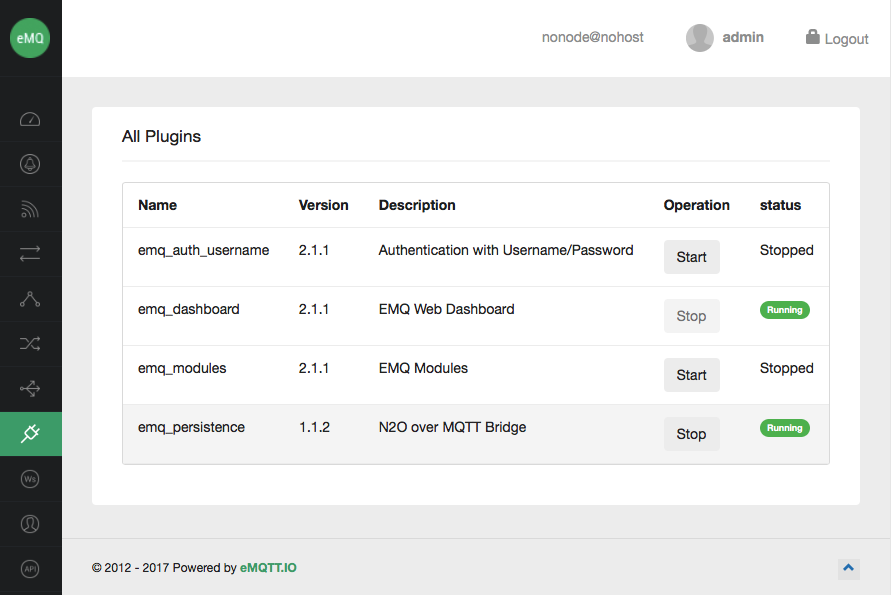
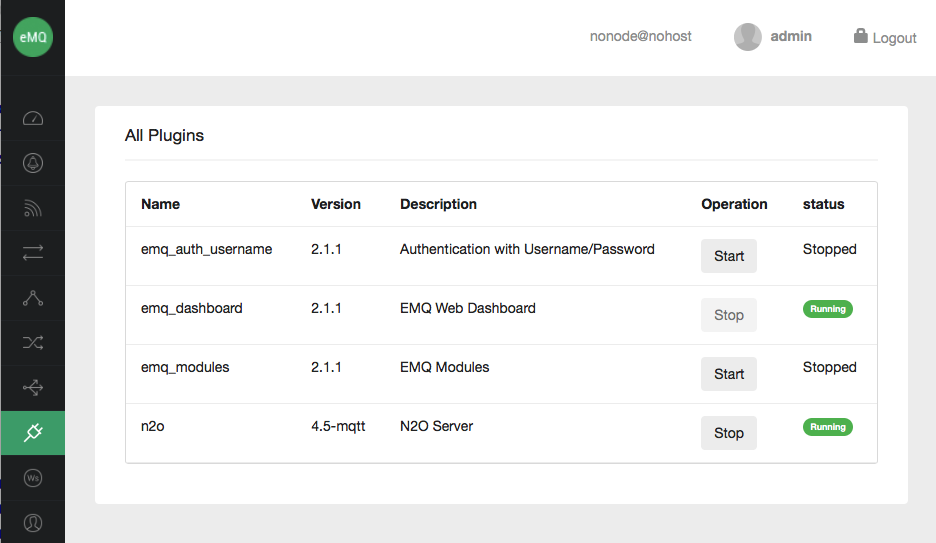
mqtt

diff --git a/mqtt.htm b/mqtt.htm
@@ -120,6 +120,7 @@
            clean git history, small codebase, nitro compatible,
            man/html docs.</p>
         <figure>
+            <figcaption>Listing 1. N2O 4.5 MQTT</figcaption>
         <pre style="width:700px">
 
     $ time git clone git://github.com/synrc/mqtt
@@ -142,10 +143,13 @@
         <a name=""><h3>N2O things deprecated due to MQTT</h3></a>
         <p>
             N2O_start and n2o.js are no longer used in MQTT version of N2O.
-            Instead of N2O_start, MQTT_start and mqtt.js should be used for session control replacement.
-            We traded HEART protocol and session facilities for built-in MQTT features.
-            N2O authentication and authorization mechanisms are also abandoned as MQTT could provide AUTH features too.
-            Obviously <b>wf:reg</b> and <b>wf:send</b> APIs have also been abandoned as we can use emqttd API directly and {deliver,_} protocol of ws_client gen_server.
+            Instead of N2O_start, MQTT_start and mqtt.js should be used for
+            session control replacement. We traded HEART protocol and session
+            facilities for built-in MQTT features. N2O authentication and
+            authorization mechanisms are also abandoned as MQTT could provide
+            AUTH features too. Obviously <b>wf:reg</b> and <b>wf:send</b> APIs
+            have also been abandoned as we can use emqttd API directly and
+            <b>{deliver,_}</b> protocol of ws_client gen_server.
         </p>
         <ul>
             <li><b>n2o_session</b> &mdash; no Browser, so no Cookies are needed</li>
@@ -214,7 +218,7 @@
     <section>
         <a name=sample><h3>Sample Application</h3></a>
         <figure>
-            <figcaption>Code 3. Sample Web Application written in NITRO DSL</figcaption>
+            <figcaption>Listing 2. Sample Web Application written in NITRO DSL</figcaption>
             <code>
   main() -> [].
 
@@ -231,7 +235,7 @@
 </code>
 </figure>
         <figure>
-            <figcaption>Picture 1.1. N2O Review Application</figcaption>
+            <figcaption>Picture 3. N2O Review Application</figcaption>
             <img src="img/n2o-mqtt.png">
         </figure>
     </section>
@@ -245,7 +249,7 @@
             It can only be reached by calling <b>{init,_}</b> message of NITRO protocol.
         </p>
         <figure>
-            <figcaption>Code 1. Emulating "N2O," init handshake</figcaption>
+            <figcaption>Listing 3. Emulating "N2O," init handshake</figcaption>
             <code>
 on_client_subscribe(ClientId, Username, TopicTable, _Env) ->
   Name = binary_to_list(iolist_to_binary(ClientId)),
@@ -269,7 +273,7 @@ on_client_subscribe(ClientId, Username, TopicTable, _Env) ->
             This is the best place to put the federation relay for N2O modules.
         </p>
         <figure>
-            <figcaption>Code 2. Emulating N2O message delivery</figcaption>
+            <figcaption>Listing 4. Emulating N2O message delivery</figcaption>
             <code>
   on_message_delivered(ClientId, Username,
                      Message = #mqtt_message{topic   = Topic,
@@ -293,7 +297,7 @@ on_client_subscribe(ClientId, Username, TopicTable, _Env) ->
     <section>
         <a name=js><h3>MQTT JavaScript Client</h3></a>
         <figure>
-            <figcaption>Code 4. mq.js</figcaption>
+            <figcaption>Listing 5. mq.js</figcaption>
             <code>
 var topic = module + "_" + params.room || "lobby",
     mqtt = new Paho.MQTT.Client("127.0.0.1", 8083, ''),
@@ -350,7 +354,7 @@ MQTT_start();
             <a href="http://127.0.0.1:8000/spa/login.htm">http://127.0.0.1:8000/spa/login.htm</a>
         </p>
         <figure>
-            <figcaption>Picture 2. EMQ Plugin</figcaption>
+            <figcaption>Picture 4. EMQ Plugin</figcaption>
             <img src="img/emq.png">
         </figure>
     </section>
@@ -363,7 +367,7 @@ MQTT_start();
             <a href="https://github.com/emqtt">https://github.com/emqtt</a> Github organization.
         </p>
         <figure>
-            <figcaption>Picture 3. MQTT 3.1.1 vs MQTT 5.0</figcaption>
+            <figcaption>Picture 5. MQTT 3.1.1 vs MQTT 5.0</figcaption>
             <img src="img/mqtt-v5.svg">
         </figure>
         <p>
@@ -371,7 +375,7 @@ MQTT_start();
             Our fork is based on the latest EMQ master and is dedicated for building with our MAD build tool.
         </p>
         <figure>
-            <figcaption>Code 5. Setup MQTT flavoured N2O.</figcaption>
+            <figcaption>Listing 6. Setup MQTT flavoured N2O.</figcaption>
             <pre>
 $ brew install erlang
 $ curl -fsSL https://raw.github.com/synrc/mad/master/mad > mad \
@@ -388,119 +392,74 @@ sys     0m5.065s
 $ mad rep
 Configuration: [{n2o,
                     [{port,8000},
-                    {app,review},
-                    {mode,dev},
-                    {route,routes},
-                    {formatter,bert},
-                    {minify,
-                        {"apps/review/priv/static",
-                        ["deps/n2o/priv/bullet.js","deps/n2o/priv/n2o.js",
-                        "apps/review/priv/mq.js","deps/n2o/priv/ftp.js",
-                        "deps/n2o/priv/protocols/bert.js",
-                        "deps/n2o/priv/protocols/nitrogen.js",
-                        "deps/n2o/priv/utf8.js",
-                        "deps/n2o/priv/validation.js"]}},
-                    {log_modules,config},
-                    {log_level,config},
-                    {log_backend,n2o_log},
-                    {origin,<<"*">>},
-                    {auto_session,disabled},
-                    {pickler,n2o_pickle},
-                    {erroring,n2o_error},
-                    {event,pickle}]},
+                     {app,review},
+                     {pickler,n2o_secret},
+                     {formatter,bert},
+                     {log_modules,config},
+                     {log_level,config}]},
                 {emq_dashboard,
                     [{listeners_dash,
-                        [{http,18083,[{acceptors,4},{max_clients,512}]}]}]},
+                         [{http,18083,[{acceptors,4},{max_clients,512}]}]}]},
                 {emq_modules,
                     [{modules,
-                        [{emq_mod_presence,[{qos,1}]},
-                        {emq_mod_subscription,[{<<"%u/%c/#">>,2}]},
-                        {emq_mod_rewrite,
-                            [{rewrite,"x/#","^x/y/(.+)$","z/y/$1"},
-                            {rewrite,"y/+/z/#","^y/(.+)/z/(.+)$",
-                                "y/z/$2"}]}]}]},
+                         [{emq_mod_presence,[{qos,1}]},
+                          {emq_mod_subscription,[{<<"%u/%c/#">>,2}]},
+                          {emq_mod_rewrite,
+                              [{rewrite,"x/#","^x/y/(.+)$","z/y/$1"},
+                               {rewrite,"y/+/z/#","^y/(.+)/z/(.+)$",
+                                   "y/z/$2"}]}]}]},
                 {emqttd,
                     [{listeners,
-                        [{http,8083,[{acceptors,4},{max_clients,512}]},
-                        {tcp,1883,[{acceptors,4},{max_clients,512}]}]},
-                    {sysmon,
-                        [{long_gc,false},
-                        {long_schedule,240},
-                        {large_heap,8000000},
-                        {busy_port,false},
-                        {busy_dist_port,true}]},
-                    {session,
-                        [{upgrade_qos,off},
-                        {max_inflight,32},
-                        {retry_interval,20},
-                        {max_awaiting_rel,100},
-                        {await_rel_timeout,20},
-                        {enable_stats,off}]},
-                    {queue,[]},
-                    {allow_anonymous,true},
-                    {protocol,
-                        [{max_clientid_len,1024},{max_packet_size,64000}]},
-                    {acl_file,"etc/acl.conf"},
-                    {plugins_etc_dir,"etc/plugins/"},
-                    {plugins_loaded_file,"etc/loaded_plugins"},
-                    {pubsub,
-                        [{pool_size,8},{by_clientid,true},{async,true}]}]},
+                         [{http,8083,[{acceptors,4},{max_clients,512}]},
+                          {tcp,1883,[{acceptors,4},{max_clients,512}]}]},
+                     {sysmon,
+                         [{long_gc,false},
+                          {long_schedule,240},
+                          {large_heap,8000000},
+                          {busy_port,false},
+                          {busy_dist_port,true}]},
+                     {session,
+                         [{upgrade_qos,off},
+                          {max_inflight,32},
+                          {retry_interval,20},
+                          {max_awaiting_rel,100},
+                          {await_rel_timeout,20},
+                          {enable_stats,off}]},
+                     {queue,[]},
+                     {allow_anonymous,true},
+                     {protocol,
+                         [{max_clientid_len,1024},{max_packet_size,64000}]},
+                     {acl_file,"etc/acl.conf"},
+                     {plugins_etc_dir,"etc/plugins/"},
+                     {plugins_loaded_file,"etc/loaded_plugins"},
+                     {pubsub,
+                         [{pool_size,8},{by_clientid,true},{async,true}]}]},
                 {kvs,
                     [{dba,store_mnesia},
-                    {schema,[kvs_user,kvs_acl,kvs_feed,kvs_subscription]}]}]
+                     {schema,[kvs_user,kvs_acl,kvs_feed,kvs_subscription]}]}]
 Applications:  [kernel,stdlib,gproc,lager_syslog,pbkdf2,asn1,fs,ranch,mnesia,
                 compiler,inets,crypto,syntax_tools,xmerl,gen_logger,esockd,
-                kvs,cowlib,goldrush,public_key,lager,ssl,cowboy,mochiweb,n2o,
-                emqttd,review,active,erlydtl,mad,emqttc,nitro,rest,sh,syslog]
+                cowlib,goldrush,public_key,lager,ssl,cowboy,mochiweb,emqttd,
+                erlydtl,kvs,mad,emqttc,nitro,rest,sh,syslog,review]
 Erlang/OTP 19 [erts-8.3] [source] [64-bit] [smp:4:4] [async-threads:10] [hipe] [kernel-poll:false] [dtrace]
 
 Eshell V8.3  (abort with ^G)
-1> 18:23:08.249 [info] Application lager started on node nonode@nohost
-18:23:08.359 [info] Application ssl started on node nonode@nohost
-18:23:08.409 [info] Application cowboy started on node nonode@nohost
-18:23:08.415 [info] Application mochiweb started on node nonode@nohost
-18:23:08.506 [info] Application n2o started on node nonode@nohost
 starting emqttd on node 'nonode@nohost'
 Nonexistent: []
-emqttd ctl is starting...[ok]
-emqttd hook is starting...[ok]
-emqttd router is starting...[ok]
-emqttd pubsub is starting...[ok]
-emqttd stats is starting...[ok]
-emqttd metrics is starting...[ok]
-emqttd pooler is starting...[ok]
-emqttd trace is starting...[ok]
-emqttd client manager is starting...[ok]
-emqttd session manager is starting...[ok]
-emqttd session supervisor is starting...[ok]
-emqttd wsclient supervisor is starting...[ok]
-emqttd broker is starting...[ok]
-emqttd alarm is starting...[ok]
-emqttd mod supervisor is starting...[ok]
-emqttd bridge supervisor is starting...[ok]
-emqttd access control is starting...[ok]
-emqttd system monitor is starting...[ok]
 Plugins: [{mqtt_plugin,emq_auth_username,"2.1.1",
-                    "Authentication with Username/Password",false},
-        {mqtt_plugin,emq_dashboard,"2.1.1","EMQ Web Dashboard",false},
-        {mqtt_plugin,emq_modules,"2.1.1","EMQ Modules",false},
-        {mqtt_plugin,emq_persistence,"1.1.2","N2O over MQTT Bridge",false}]
-Names: [emq_dashboard,emq_persistence]
+                       "Authentication with Username/Password",false},
+          {mqtt_plugin,emq_dashboard,"2.1.1","EMQ Web Dashboard",false},
+          {mqtt_plugin,emq_modules,"2.1.1","EMQ Modules",false},
+          {mqtt_plugin,n2o,"4.5-mqtt","N2O Server",false}]
+Names: [emq_dashboard,n2o]
 dashboard:http listen on 0.0.0.0:18083 with 4 acceptors.
-18:23:11.715 [info] started Apps: [emq_dashboard]
-18:23:11.715 [info] load plugin emq_dashboard successfully
-18:23:11.715 [info] Application emq_dashboard started on node nonode@nohost
-18:23:11.775 [info] started Apps: [emq_persistence]
-18:23:11.775 [info] load plugin emq_persistence successfully
-18:23:11.775 [info] Application emq_persistence started on node nonode@nohost
+Async Start Attempt {handler,"timer",n2o,system,n2o,[],[]}
+Proc Init: init
 mqtt:ws listen on 0.0.0.0:8083 with 4 acceptors.
 mqtt:tcp listen on 0.0.0.0:1883 with 4 acceptors.
 emqttd 2.1.1 is running now
+>
             </pre>
-        </figure>
-        <figure>
-            <figcaption>Picture 4. N2O Loop under emqttd_ws_client_sup</figcaption>
-            <img src="img/observer-mqtt.png">
         </figure>
     </section>
 </main>
